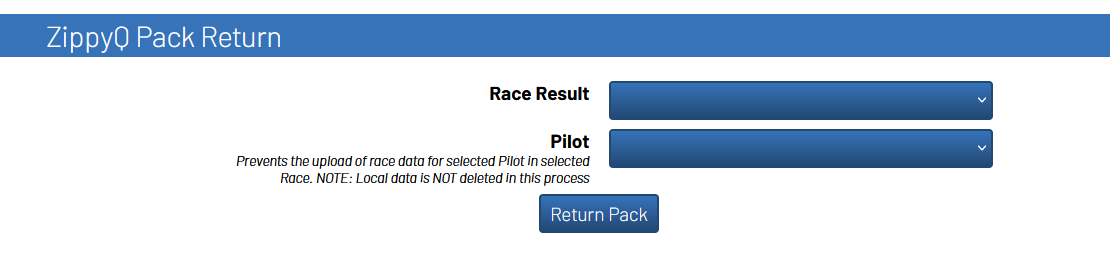
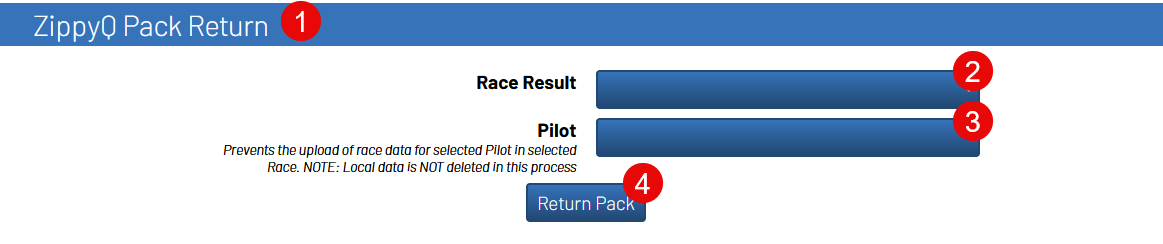
results page

Changed region(s): [[0.0, 0.0, 1.0, 0.918]]

diff --git a/docs/usage/zippyq/index.rst b/docs/usage/zippyq/index.rst
@@ -1,14 +1,18 @@
 Using MultiGP's ZippyQ System
 ==============================
 
+.. note::
+
+    The ``ZippyQ Controls``
+
 Import ZippyQ Rounds
 ------------------------------
 
-All instructions under this subsection will be performed under the ``Format`` tab
+All instructions under this subsection will be performed under the ``Format`` page
 
 .. image:: ../importing/format.png
         :width: 500
-        :alt: RotorHazard Format Tab
+        :alt: RotorHazard Format page
 
 After importing a race with ZippyQ enabled, a new class under ``Classes and Heats`` will
 be created. This class will not have any heats under it.
@@ -41,28 +45,30 @@ after every round.
 
 *Optional:* Turn on ``Active Race on Import``. This feature will automatically set the next round as the
 active race after downloading either manually or automatically. This feature will trigger the ``Heat Change``
-event within RotorHazard if you have an ``Event Action`` setup under the ``Settings`` tab.
+event within RotorHazard if you have an ``Event Action`` setup under the ``Settings`` page.
 
 ZippyQ Pack Return
 ------------------------------
 
-All instructions under this subsection will be performed under the ``Marshal`` tab
+All instructions under this subsection will be performed under the ``Marshal`` page
 
-.. image:: marshal_tab.png
+.. image:: marshal_page.png
         :width: 500
-        :alt: RotorHazard Marshal Tab
+        :alt: RotorHazard Marshal page
 
-The toolkit supports the functionality to give a pilot their pack back after a race if needed.
+The toolkit supports the functionality to give a pilot their pack back after a race if needed. 
 
 .. image:: pack_return.png
         :width: 500
         :alt: Pack Reutrn
 
-1. Select the Race the pilot particpated in from the ``Race Result`` selector
+1. Open the ``ZippyQ Pack Return Panel``.
 
-2. Select the pilot in the ``Pilot`` selector
+2. Select the Race the pilot particpated in from the ``Race Result`` selector
 
-3. Click the ``Return Pack`` button
+3. Select the pilot in the ``Pilot`` selector
+
+4. Click the ``Return Pack`` button
 
 .. note::
 

diff --git a/docs/usage/pushing/index.rst b/docs/usage/pushing/index.rst
@@ -1,0 +1,54 @@
+Pushing Results to MultiGP
+=============================
+
+All instructions under this subsection will be performed under the ``Format`` page
+
+.. image:: ../importing/format.png
+        :width: 500
+        :alt: RotorHazard Format page
+
+MultiGP Results Controls Panel
+--------------------------------
+
+.. image:: results_panel.png
+    :width: 500
+    :alt: Results Control Panel
+
+Results Class
+^^^^^^^^^^^^^^^^^^^^^^^^^^^^^^^^^
+
+This selector is used to select the class to use for the race results on MultiGP's website.
+
+.. image:: mgp_results.png
+    :width: 500
+    :alt: MultiGP Results
+
+Rankings Class
+^^^^^^^^^^^^^^^^^^^^^^^^^^^^^^^^^
+
+This selecotr is used to select the class to use for the ``Overall Results`` on MultiGP's website under 
+the ``Update Scores`` setting for your race.
+
+.. image:: mgp_rankings.png
+    :width: 500
+    :alt: MultiGP Rankings
+
+.. note::
+
+    The use of this setting will require you to select a race that does **NOT** use the ``From Race Format`` 
+    setting, otherwise, it will be skipped and MultiGP will automatically calculate the rankings based
+    on the race format.
+
+    .. image:: rh_rankings.png
+        :width: 500
+        :alt: MultiGP Rankings
+
+FPVScores Settings
+^^^^^^^^^^^^^^^^^^^^^^^^^^^^^^^^^
+
+There are two FPVScores related settings under the ``MultiGP Results Controls``. The first setting
+will either activate or deactivate the ability to push Results to FPVScores.
+
+The second setting allows you to provide a FPVScores Event UUID to allow you to push your results
+to a specific FPVScores event. See the :ref:`Ability to Upload Results <fpvscores table>` 
+table to show the mapped functionality.

diff --git a/docs/usage/fpvscores/index.rst b/docs/usage/fpvscores/index.rst
@@ -11,19 +11,21 @@ We have partnered with `FPVScores <https://fpvscores.com/>`_ to provide a platfo
         :width: 1000
         :alt: FPVScores Event Link
 
+
+.. _fpvscores table:
 .. list-table:: Ability to Upload Results
-   :widths: 25 25 50
-   :header-rows: 1
+    :widths: 25 25 50
+    :header-rows: 1
 
    * - 
      - FPVScores Event UUID
      - Linking MultiGP Chapter API key to FPVScores Organisation
    * - Standard MultiGP Race
-     - Required when FPVScores Organisation isn't linked
-     - Required when FPVScores Event UUID isn't provided at upload
+     - Required when FPVScores Organisation **is not** linked or Optional when FPVScores Organisation **is** linked
+     - Required when FPVScores Event UUID **is not** provided at upload
    * - MultiGP Global Qualifier
      - Not Required
-     - Not Required - when uploading without a linked FPVScores Organisation, the results will be uploaded without being linked to an FPVScores Organisation. These results will not be capable of being managed by an Organisation once uploaded.
+     - Not Required - when uploading without a linked FPVScores Organisation, the results will be uploaded without being linked to an FPVScores Organisation. These results **will not** be capable of being managed by an Organisation once uploaded.
 
 Linking a FPVScores Organisation
 -------------------------------------------
@@ -63,7 +65,7 @@ Finding and Event UUID for a race
         :width: 400
         :alt: Event Manager
 
-3. Open the events tab
+3. Open the events page
 
     .. image:: events.png
         :width: 400

diff --git a/docs/usage/importing/index.rst b/docs/usage/importing/index.rst
@@ -1,11 +1,11 @@
 Importing a Event into RotorHazard
 ==========================================
 
-All instructions under this section will be performed under the ``Format`` tab
+All instructions under this section will be performed under the ``Format`` page
 
 .. image:: format.png
         :width: 500
-        :alt: RotorHazard Format Tab
+        :alt: RotorHazard Format page
 
 Waiting for Plugin Activation
 -------------------------------------------

diff --git a/docs/usage/install/index.rst b/docs/usage/install/index.rst
@@ -64,7 +64,7 @@ Manual Installation
 Verifying your Installation
 -------------------------------------------
 
-If installation is successful, ``MultiGP Toolkit`` should be listed under the ``Plugins`` panel under the ``Settings`` tab after rebooting
+If installation is successful, ``MultiGP Toolkit`` should be listed under the ``Plugins`` panel under the ``Settings`` page after rebooting
 
 .. image:: install_verify.png
         :width: 500

diff --git a/docs/usage/setup/index.rst b/docs/usage/setup/index.rst
@@ -7,7 +7,7 @@ In order to activate most of the MultiGP Toolkit's functionality, your MultiGP c
         :width: 1000
         :alt: MultiGP API Key
 
-1. Navigate to the ``Settings`` tab within RotorHazard
+1. Navigate to the ``Settings`` page within RotorHazard
 
 2. Open the ``MultiGP Credentials`` panel
 
